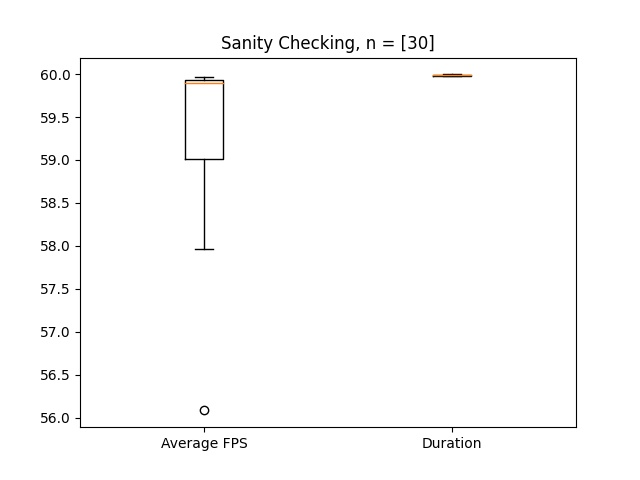
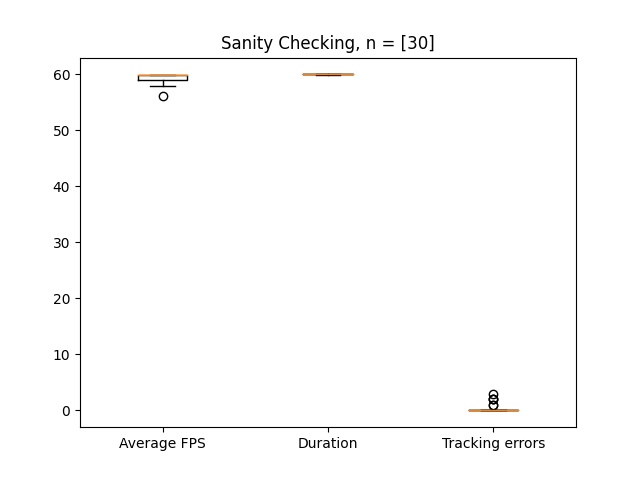
implemented detection of tracking errors

diff --git a/plot.py b/plot.py
@@ -11,51 +11,57 @@ dill.load_session('data_calculated.pkl')
 #%% plot sanity check data    
 fpss = []
 times = []
+track_err = []
 
 for p in Participants:
     for c in Conditions[1:]:
         for t in Trials:
             fpss.append(data[p][c][t]['fps'])
-            times.append(data[p][c][t]['duration'])        
+            times.append(data[p][c][t]['duration'])
+            track_err.append(data[p][c][t]['track_err']) 
 
 fig1, ax1 = plt.subplots()
-ax1.boxplot([fpss,times])
+ax1.boxplot([fpss,times,track_err])
 ax1.set_title('Sanity Checking, n = [{}]'.format(2*5*3))
-ax1.set_xticklabels(['Average FPS','Duration'])
+ax1.set_xticklabels(['Average FPS','Duration','Tracking errors'])
 fig1.savefig("plots/sanity_check.jpg")
 
-#%% plot grab data
-average_velocity = pd.DataFrame()
+#%% plot data per condition
 failed_grabs = pd.DataFrame()
 correct_grabs = pd.DataFrame()
+max_velocity = pd.DataFrame()
+average_velocity = pd.DataFrame()
 
 for c in Conditions[1:]:
-    velocity = []
-    fails = []
-    succes = []
+    Fails = []
+    Succes = []
+    Velocity = []
+
     for p in Participants:
-        vel = 0
         failed = 0
         correct = 0
+        velocity = 0
+
         for t in Trials:
-            vel += np.mean(data[p][c][t]['velocity'])
             failed += data[p][c][t]['grabs']['fail']
             correct += data[p][c][t]['grabs']['succes']
-        
-        velocity.append(vel/3)
-        fails.append(failed/3)
-        succes.append(correct/3)
+            velocity += np.mean(data[p][c][t]['velocity'])
 
-    average_velocity[c] = velocity
-    failed_grabs[c] = fails
-    correct_grabs[c] = succes
+        
+        Velocity.append(velocity/3)
+        Fails.append(failed/3)
+        Succes.append(correct/3)
+
+    failed_grabs[c] = Fails
+    correct_grabs[c] = Succes
+    average_velocity[c] = Velocity
 
 fig2, ax2 = plt.subplots()
-ax2.boxplot(average_velocity)
-ax2.set_title('Average Velocity [m/s]')
+ax2.boxplot(failed_grabs)
+ax2.set_title('Failed Grabs [Average n]')
 ax2.set_xlabel('Conditions')
 ax2.set_xticklabels(['B','C','D','E','F'])
-fig2.savefig("plots/average_velocity.jpg")
+fig2.savefig("plots/failed_grabs.jpg")
 
 fig3, ax3 = plt.subplots()
 ax3.boxplot(correct_grabs)
@@ -65,11 +71,11 @@ ax3.set_xlabel('Conditions')
 fig3.savefig("plots/correct_grabs.jpg")
 
 fig4, ax4 = plt.subplots()
-ax4.boxplot(failed_grabs)
-ax4.set_title('Failed Grabs [Average n]')
+ax4.boxplot(average_velocity)
+ax4.set_title('Average Velocity [m/s]')
 ax4.set_xlabel('Conditions')
 ax4.set_xticklabels(['B','C','D','E','F'])
-fig4.savefig("plots/failed_grabs.jpg")
+fig4.savefig("plots/average_velocity.jpg")
 
 #%% plot input paths
 # for p in Participants:

diff --git a/calculate.py b/calculate.py
@@ -25,6 +25,9 @@ for p in Participants:
             data[p][c][t]['duration'] = calculators.duration(data, p, c, t)
             print('Duration: {}'.format(data[p][c][t]['duration']))
             
+            data[p][c][t]['track_err'] = calculators.track_error(data, p, c, t)
+            print('Tracking errors: {}'.format(data[p][c][t]['track_err']))
+
             data[p][c][t]['time'] = calculators.time(data, p, c, t)
            
             data[p][c][t]['velocity'] = calculators.velocity(data, p, c, t, 'Hand')

diff --git a/calculators.py b/calculators.py
@@ -22,6 +22,14 @@ def duration(data, p, c, t):
 
     return duration
 
+def track_error(data, p, c, t):
+    checks = -data[p][c][t]['Experiment']["Controlling"][data[p][c][t]['Experiment'].start]
+    peaks, _ = signal.find_peaks(checks)
+
+    errors = len(peaks)
+
+    return errors
+
 def time(data, p, c, t):
     time_crop = functions.crop_data(data[p][c][t]['Experiment']["t"], data[p][c][t]['Experiment'])
     
